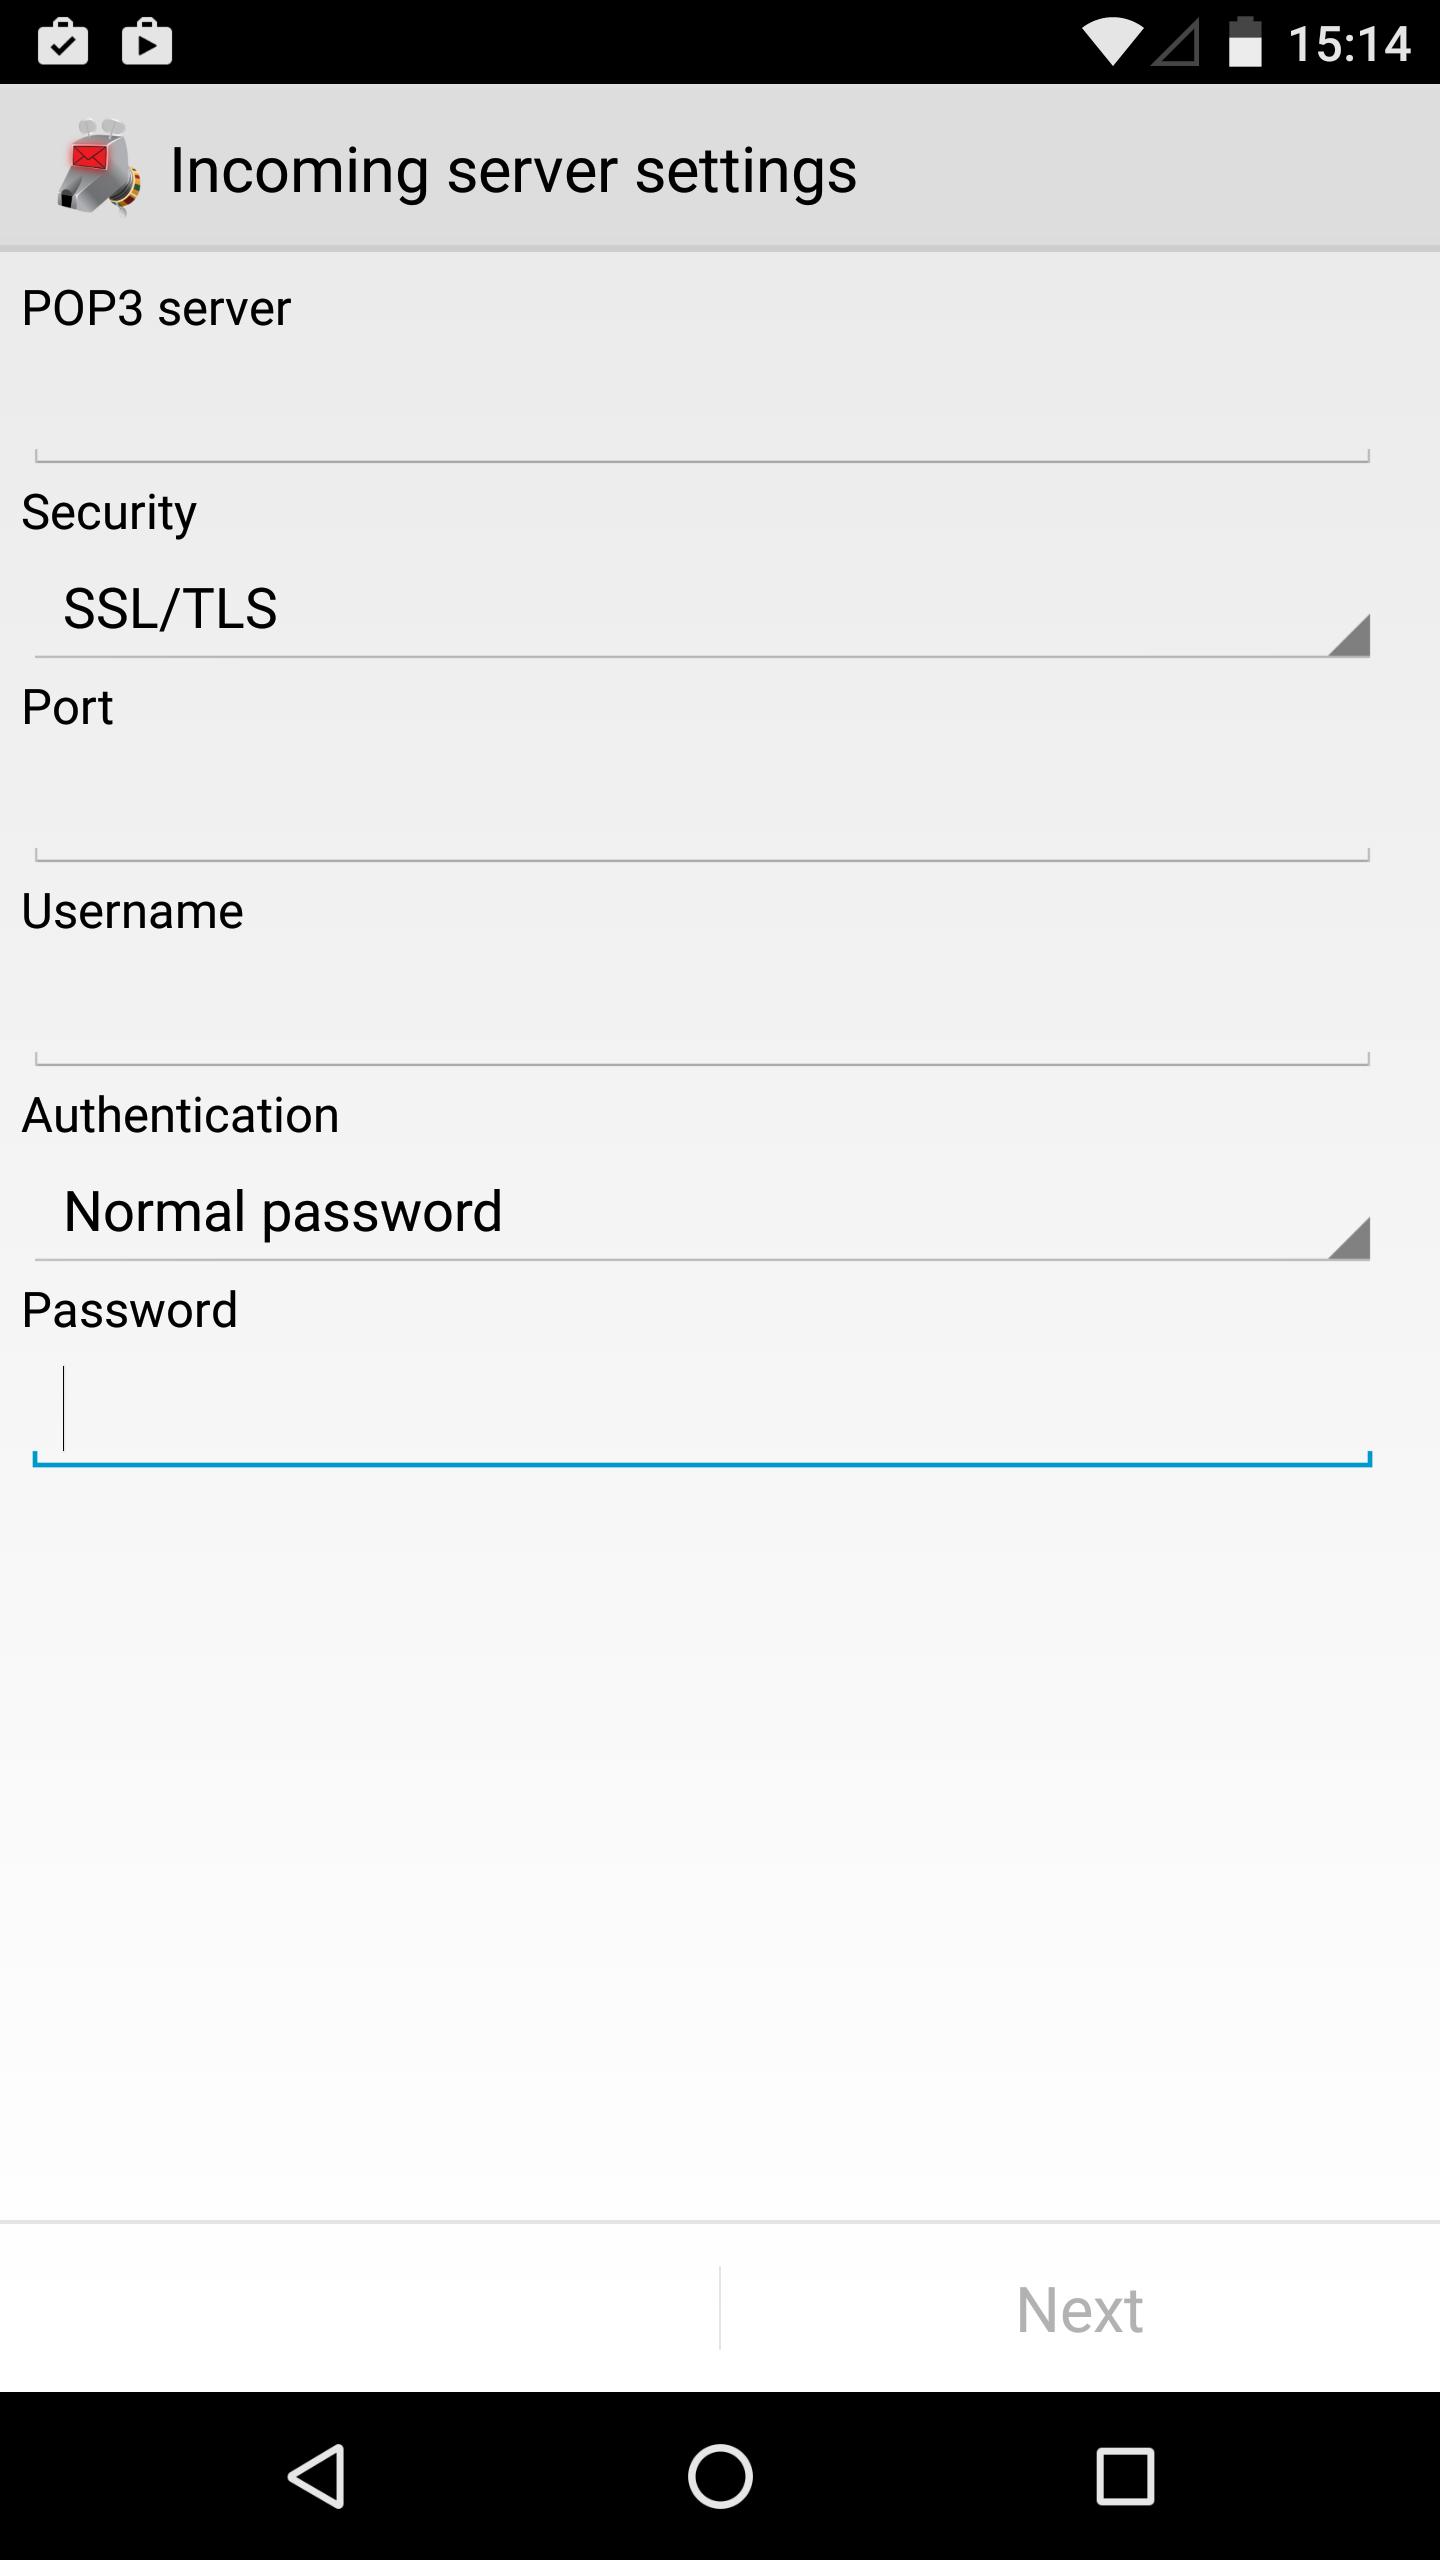
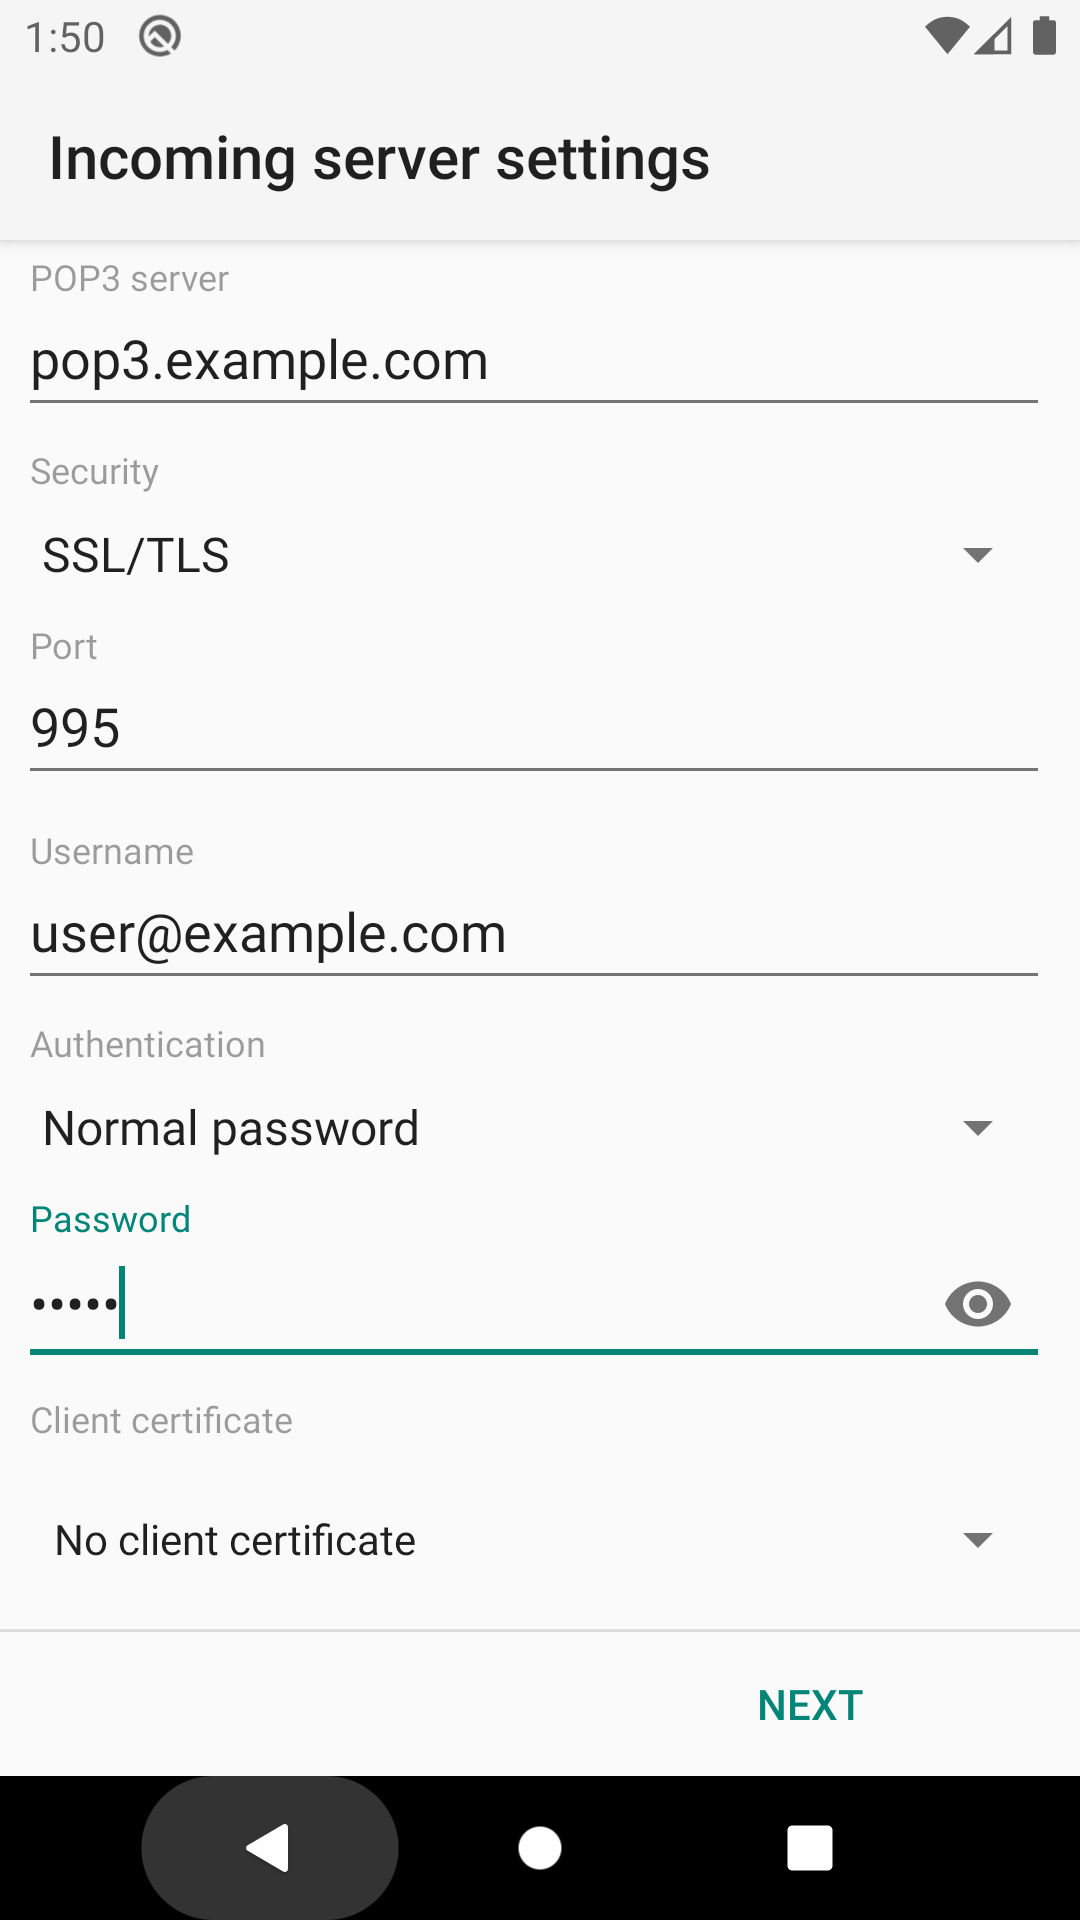
Updates for IMAP and POP3 settings

diff --git a/docs/accounts/incoming_imap.md b/docs/accounts/incoming_imap.md
@@ -8,16 +8,6 @@ covering some of these entry fields; don't forget to scroll.
 &nbsp;
 ![Incoming server settings (part 2)](img/account_setup_step3_imap_incoming_server_2.png)
 
-**Username**: This is the username that's needed to authenticate to the IMAP server. The field is initialized with the 
-user part of your email address. Some servers are okay with this; some, generally those which support multiple domains,
-require that you fill in your entire email address here. In this case, if you entered the entire email address on the
-previous screen, you will need to re-enter the hostname part here, as K-9 Mail doesn't know whether you need it and 
-assumes you don't.
-
-**Password**: Here you enter the password to access your emails. The password you entered at the first step of the 
-account creation process is pre-entered here. So you shouldn't need to change it. This password is the one which an 
-administrator set for you or gave to you, which you use to retrieve mail from the mailbox.
-
 **IMAP server**: This is the hostname or IP address of your IMAP server. Note that this address must resolve to your 
 mail server no matter what network you're connected to -- if you provide a name or IP that's only resolvable *inside 
 your private network*, that's the only place you'll be able to pick up email. (If you don't understand the preceding, 
@@ -27,35 +17,52 @@ then you probably don't need to worry about it.) Some firewalls can also cause t
 Available options are:
 
 * None: This doesn't use any transport security at all.
-* SSL/TLS (if available): SSL/TLS is used but the certificate isn't checked.
-* **SSL/TLS (always)**: SSL/TLS is used and the certificate presented must be valid.
-* STARTTLS (if available): The STARTTLS method is used if available; the certificate isn't checked. If STARTTLS is not
-available, no encryption is used at all and email will be moved in the clear.
-* **STARTTLS (always)**: The STARTTLS method is used and the certificate is checked for validity.
+* STARTTLS: The STARTTLS method is used.
+* SSL/TLS: TLS is used.
 
-*Note*: Avoid using the options *"None"*, *"SSL/TLS (if available)"*, and *"STARTTLS (if available)"* if you can. Check 
-the chapter on [SSL/TLS](../security/ssl.md) for more information on this.
+TLS and STARTTLS are both secure so it does not matter which you use, as long as it is supported by
+your mail provider. However TLS is now much more common.
+
+**Port**: This is the port number the IMAP server is listening on. Most of the time you don't want to change this. It
+will generally be:
+
+* **143** for non-encrypted or STARTTLS connections, and
+* **993** for TLS.
+
+If your port number is something else, the mail server administrator should have told you.
+
+**Username**: This is the username that's needed to authenticate to the IMAP server. The field is initialized with the
+user part of your email address. Some servers are okay with this; some, generally those which support multiple domains,
+require that you fill in your entire email address here. In this case, if you entered the entire email address on the
+previous screen, you will need to re-enter the hostname part here, as K-9 Mail doesn't know whether you need it and
+assumes you don't.
 
 **Authentication**: This specifies which authentication method to use after you have a valid, hopefully encrypted, 
 connection. Available options are:
 
-* **PLAIN**: This is the default method. You shouldn't need to change this.
-* **CRAM_MD5**: Use this if your server doesn't support transport security but supports the CRAM_MD5 authentication 
+* **Normal password**: The password is transmitted in plain text.
+If the connection security is TLS or STARTTLS, the password is still protected against eavesdroppers.
+* **Encrypted password**: Use this if your server doesn't support transport security but supports the CRAM_MD5 authentication
 method.
+* **Client certificate**: Use this if the service supports authentication using the client certificate from the TLS connection.
+If the server requires *both* certificate and password, choose one of the "Password" options here.
+* **Password, transmitted insecurely**: (Only displayed if Security is "None") Use only as a last resort. The password will be transmitted without any encryption.
 
-**Port**: This is the port number the IMAP server is listening on. Most of the time you don't want to change this. It 
-will generally be port 143 for non-encrypted connections or 993 for encrypted ones. If your port number is something 
-else, the mail server administrator should have told you.
+**Password**: Here you enter the password to access your emails. The password you entered at the first step of the
+account creation process is pre-entered here. So you shouldn't need to change it. This password is the one which an
+administrator set for you or gave to you, which you use to retrieve mail from the mailbox.
+
+**Client certificate**: If the server expects a TLS client certificate to be provided during the initial connection,
+use this to select one from the local Android certificate store.
+
+**Auto-detect IMAP namespace**: Disable this to allow the IMAP path prefix to be specified manually.
 
 **IMAP path prefix**: The content of this field is prepended to IMAP folder names before use. The main usage is to 
-manually select which IMAP namespace to use. As the entry field notes, this can be automatically guessed, so usually, 
+manually select which IMAP namespace to use. This can be automatically guessed, so usually,
 you don't need to change this.
 
-**Show only subscribed folders**: If this is enabled K-9 Mail will only display subscribed folders. If you don't know 
-what that means leave it disabled.
-
-**Use compression on network**: If your server supports compression (DEFLATE) it is used on the selected networks to 
-minimize the amount of data transferred. Selecting this, even if your server doesn't support compression, doesn't cause 
+**Use compression on network**: If your server supports compression (DEFLATE) it is used on the selected networks to
+minimize the amount of data transferred. Selecting this, even if your server doesn't support compression, doesn't cause
 problems. So there should be no need to change these.
 
 After clicking "Next" K-9 Mail tries to connect to the server to verify the settings. This means you need to have a 

diff --git a/docs/accounts/incoming_pop3.md b/docs/accounts/incoming_pop3.md
@@ -11,18 +11,17 @@ then you probably don't need to worry about it.) Some firewalls can also cause t
 Available options are:
 
 * None: This doesn't use any transport security at all.
-* SSL/TLS (if available): SSL/TLS is used but the certificate isn't checked.
-* **SSL/TLS (always)**: SSL/TLS is used and the certificate presented must be valid.
-* STARTTLS (if available): The STARTTLS method is used if available; the certificate isn't checked. If STARTTLS is not 
-available, no encryption is used at all and email will be moved in the clear.
-* **STARTTLS (always)**: The STARTTLS method is used and the certificate is checked for validity.
+* STARTTLS: The STARTTLS method is used.
+* SSL/TLS: TLS is used.
 
-*Note*: Avoid using the options *"None"*, *"SSL/TLS (if available)"*, and *"STARTTLS (if available)"* if you can. Check 
-the chapter on [SSL/TLS](../security/ssl.md) for more information on this.
+TLS and STARTTLS are both secure so it does not matter which you use, as long as it is supported by
+your mail provider. However TLS is now much more common.
 
-**Port**: This is the port number the POP3 server is listening on. Most of the time you don't want to change this. It 
-will generally be port 110 for non-encrypted connections or 95 for encrypted ones. If your port number is something 
-else, the mail server administrator should have told you.
+**Port**: This is the port number the POP3 server is listening on. It
+will generally be:
+
+* **110** for non-encrypted or STARTTLS connections, and
+* **995** for TLS.
 
 **Username**: This is the username that's needed to authenticate to the POP3 server. The field is initialized with the 
 user part of your email address. Some servers are okay with this; some, generally those which support multiple domains, 
@@ -33,13 +32,19 @@ assumes you don't.
 **Authentication**: This specifies which authentication method to use after you have a valid, hopefully encrypted, 
 connection. Available options are:
 
-* **PLAIN**: This is the default method. You shouldn't need to change this.
-* **CRAM_MD5**: Use this if your server doesn't support transport security but supports the CRAM_MD5 authentication 
+* **Normal password**: This is the default method. You shouldn't need to change this.
+* **Encrypted password**: Use this if your server doesn't support transport security but supports the CRAM_MD5 authentication
 method.
+* **Client certificate**: Use this if the service supports authentication using the client certificate from the TLS connection.
+If the server requires *both* certificate and password, choose one of the "Password" options here.
+* **Password, transmitted insecurely**: (Only displayed if Security is "None") Use only as a last resort. The password will be transmitted without any encryption.
 
 **Password**: Here you enter the password to access your emails. The password you entered at the first step of the 
 account creation process is pre-entered here. So you shouldn't need to change it. This password is the one which an 
 administrator set for you or gave to you, which you use to retrieve mail from the mailbox.
+
+**Client certificate**: If the server expects a TLS client certificate to be provided during the initial connection,
+use this to select one from the local Android certificate store.
 
 After the server settings are checked you can now continue to 
 [configure the outgoing server](add.md#configuring-the-outgoing-server).

diff --git a/docs/accounts/add.md b/docs/accounts/add.md
@@ -56,7 +56,7 @@ pick up incoming mail from a separate one; this is why many of the items below s
 name or IP must be accessible from any network from which you may want to send mail, whether your cellular carrier's
 WAN or a private LAN via Wi-Fi. See below for more details if you have trouble.
 
-**Security type**: This specifies the cryptographic protocol that should be used when connecting to your SMTP server. 
+**Security**: This specifies the cryptographic protocol that should be used when connecting to your SMTP server.
 Available options are:
 
 * None: This doesn't use any transport security at all.
@@ -78,17 +78,18 @@ Outgoing username -- and it will commonly be identical to the incoming username,
 
 **Authentication**: This specifies which authentication method to use. Available options are:
 
-* **Normal Password**: This is the default method that will automatically detect which authentication methods are supported.
+* **Normal password**: This is the default method that will automatically detect which authentication methods are supported.
 You shouldn't need to change this.
-* **Encrypted Password**: Use this if your server doesn't support transport security but supports the CRAM_MD5 authentication
+* **Encrypted password**: Use this if your server doesn't support transport security but supports the CRAM_MD5 authentication
 method.
-* **Client Certificate**: Use this if the service supports authentication using the client certificate from the TLS connection.
+* **Client certificate**: Use this if the service supports authentication using the client certificate from the TLS connection.
 If the server requires *both* certificate and password, choose one of the "Password" options here.
+* **Password, transmitted insecurely**: (Only displayed if Security is "None") Use only as a last resort. The password will be transmitted without any encryption.
 
 **Password**: The password that's needed to authenticate to the SMTP server. This is often, though not always, identical
 to the password for the incoming server.
 
-**Client Certificate**: If the server expects a TLS client certificate to be provided during the initial connection,
+**Client certificate**: If the server expects a TLS client certificate to be provided during the initial connection,
 use this to select one from the local Android certificate store.
 
 To complete the outgoing server configuration click "Next". Again, K-9 Mail tries to connect to the server to verify
